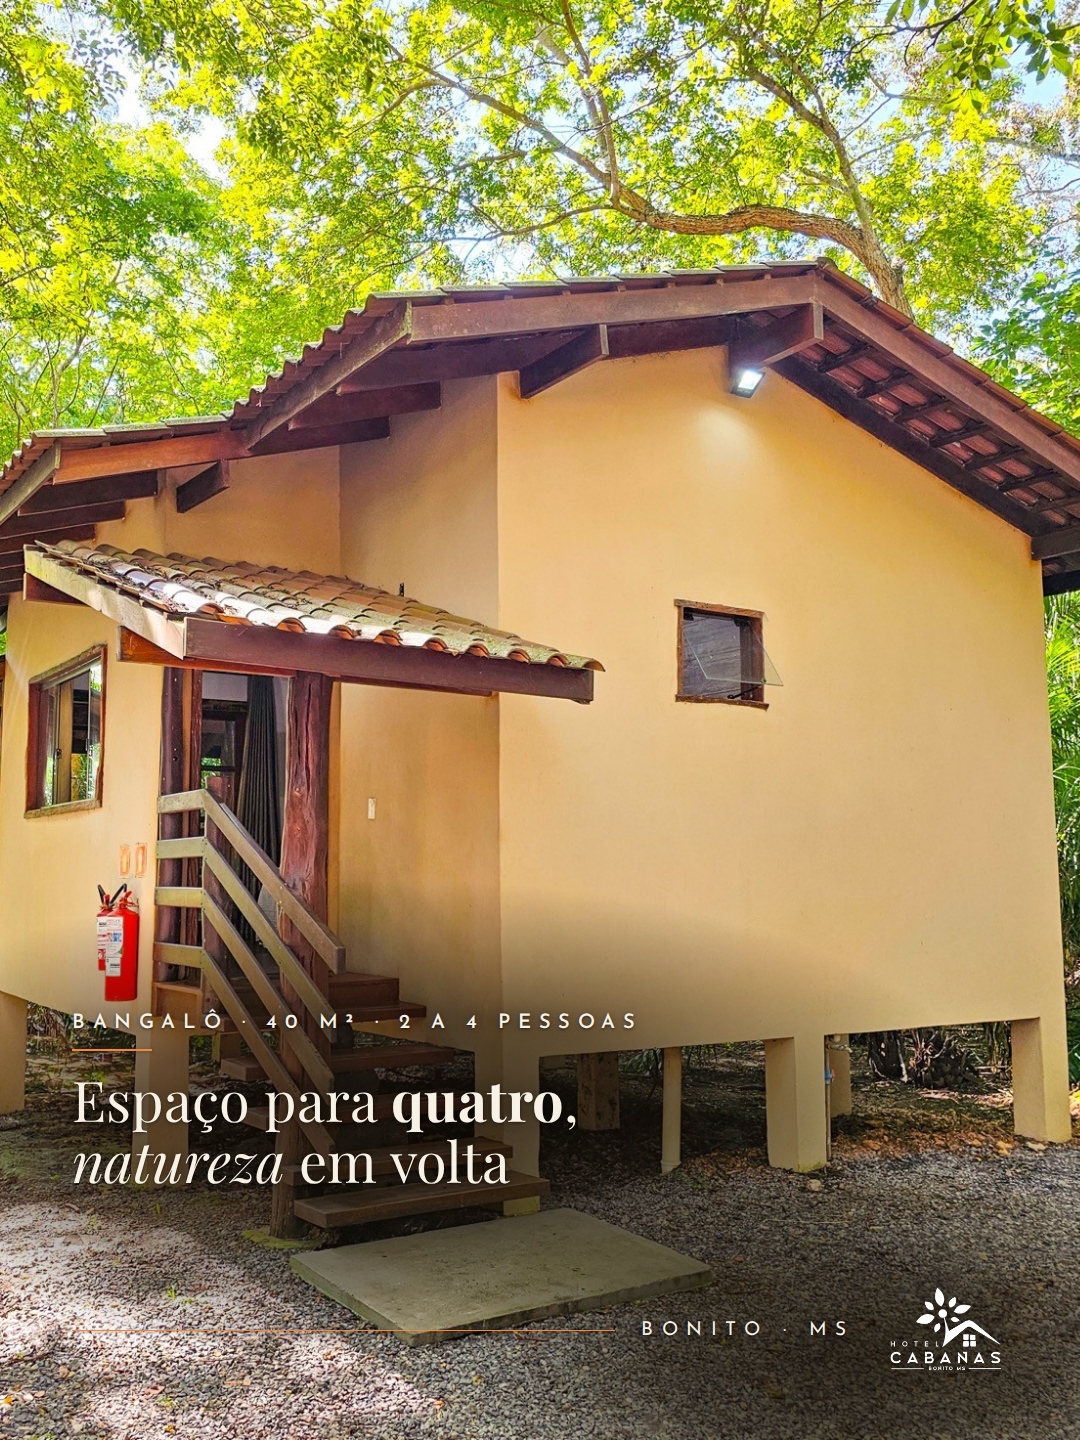
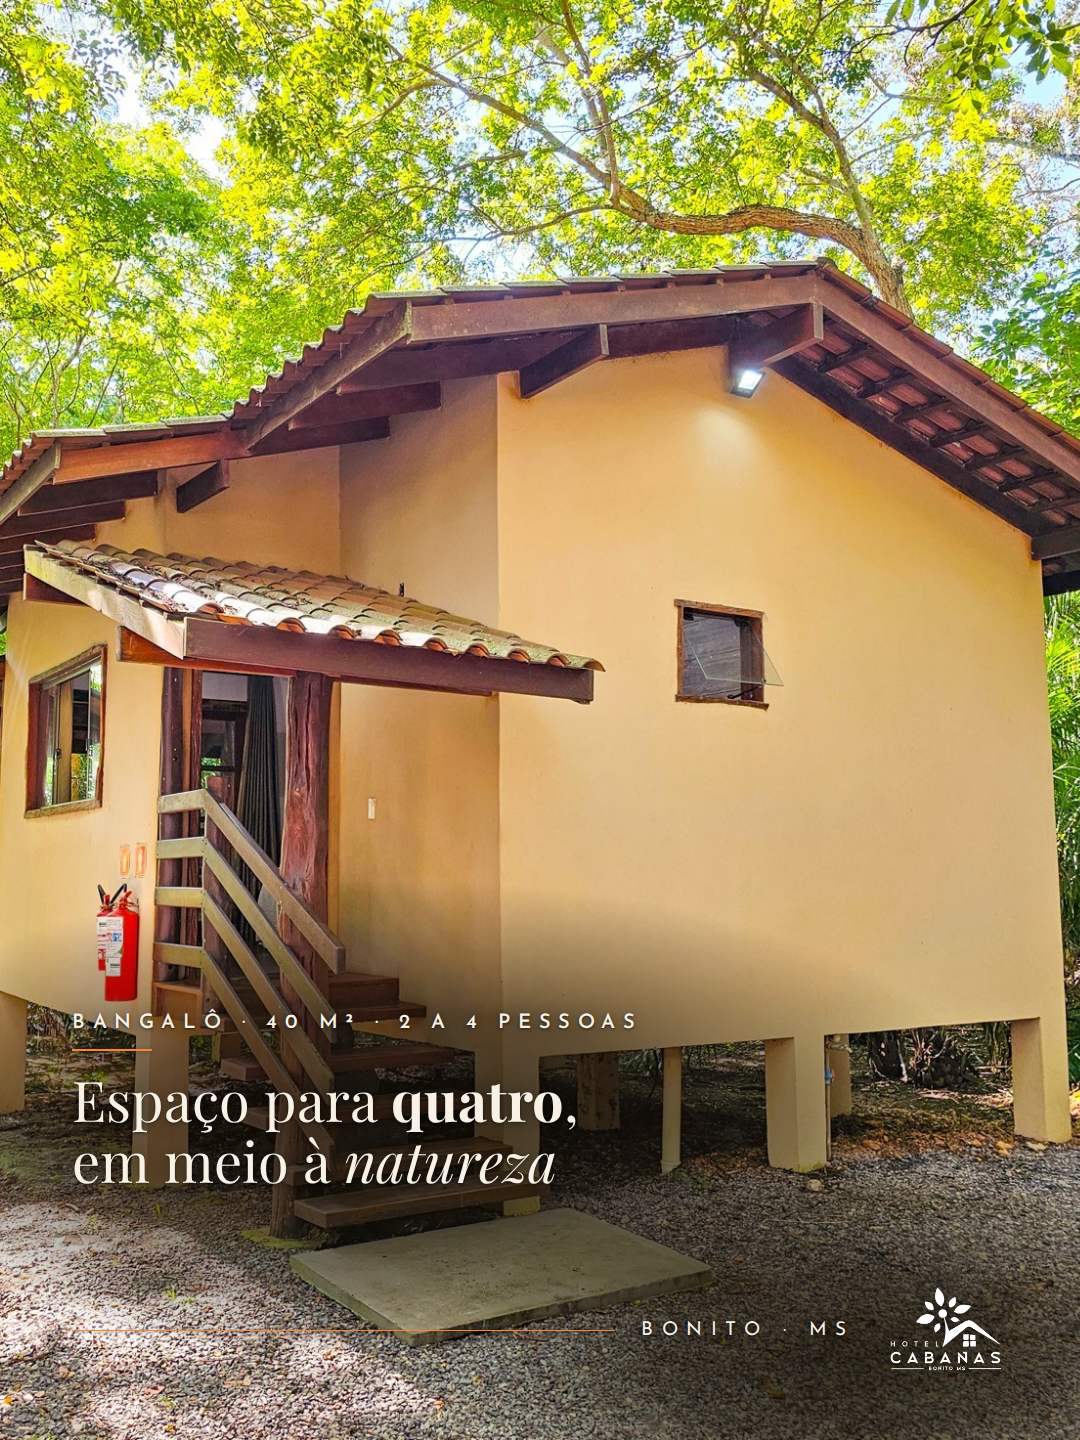
POST 16: tela 1 com o texto editado pelo dono na Central, nos 3 estilos
Claude-Session: https://claude.ai/code/session_01GffBmxQFJnfaKwiJFV7qgT

Changed region(s): [[0.0611, 0.7812, 0.5194, 0.8438]]

diff --git a/design/pecas/2026-10-instagram/POST-16/peca-caixa-1.html b/design/pecas/2026-10-instagram/POST-16/peca-caixa-1.html
@@ -18,7 +18,7 @@
   <div class="sombra" style="left: 290px; top: 1215px; width: 500px; height: 250px; --forca: 0.75"></div>
   
   <div class="cc" style="--topo: 900px">
-    <div class="cc-caixa"><h1 class="titulo duas">Espaço para quatro,<br>natureza em volta</h1></div>
+    <div class="cc-caixa"><h1 class="titulo duas">Espaço para quatro,<br>em meio à natureza</h1></div>
     <p class="cc-apoio">Bangalô · 40 m² · 2 a 4 pessoas</p>
   </div>
   <div class="cc-selo base">

diff --git a/design/pecas/2026-10-instagram/POST-16/peca-sem-faixa-1.html b/design/pecas/2026-10-instagram/POST-16/peca-sem-faixa-1.html
@@ -20,7 +20,7 @@
   <div class="bloco-sf baixo">
       <p class="apoio">Bangalô · 40 m² · 2 a 4 pessoas</p>
       <div class="linha"></div>
-      <h1 class="titulo">Espaço para <b>quatro</b>,<br><i>natureza</i> em volta</h1>
+      <h1 class="titulo">Espaço para <b>quatro</b>,<br>em meio à <i>natureza</i></h1>
   </div>
   <div class="assin-sf">
     <span class="fio"></span>

diff --git a/design/pecas/2026-10-instagram/POST-16/peca-1.html b/design/pecas/2026-10-instagram/POST-16/peca-1.html
@@ -18,7 +18,7 @@
     <div class="texto">
       <p class="apoio">Bangalô · 40 m² · 2 a 4 pessoas</p>
       <div class="linha"></div>
-      <h1 class="titulo">Espaço para <b>quatro</b>,<br><i>natureza</i> em volta</h1>
+      <h1 class="titulo">Espaço para <b>quatro</b>,<br>em meio à <i>natureza</i></h1>
     </div>
     <div class="marca">
       <span class="num"></span>

diff --git a/social/conteudo/2026-10/conteudo.md b/social/conteudo/2026-10/conteudo.md
@@ -546,7 +546,7 @@ Reserve pelo link na bio ou pelo WhatsApp (67) 99117-1648
 
 ### Briefing de arte
 Feed 3:4 (1080 × 1440). Um só layout em todas as telas (o dono prefere **sem faixa**; faixa discreta marrom `#847059` se a foto for clara demais). Título serifado com a palavra em **negrito** e a palavra em *itálico* marcadas; apoio em sem serifa, caixa alta espaçada; linha fina laranja `#F58634` + "BONITO / MS" na assinatura. **Fotos abertas e conferidas pelo Designer em 29/09/2026** (arte pronta em `design/pecas/2026-10-instagram/POST-16/final/`, layout sem faixa; detalhes em `POST-16/entrega.md`). Trocas: tela 5 e tela 6 (abaixo).
-- TELA 1 (capa): apoio "BANGALÔ · 40 M² · 2 A 4 PESSOAS" · "Espaço para **quatro**, *natureza* em volta" (6) (foto: `Bangalô / bangalo_triplo_externa` (1bcxsg), https://drive.google.com/file/d/1bcxsgpVwVIjIhTqakffLIPrF3pDZvUEi/view; alternativa: `bangalo_triplo_externa` (1wbIC8))
+- TELA 1 (capa): apoio "BANGALÔ · 40 M² · 2 A 4 PESSOAS" · "Espaço para **quatro**, em meio à *natureza*" (7) (texto editado pelo dono na Central em 29/09) (foto: `Bangalô / bangalo_triplo_externa` (1bcxsg), https://drive.google.com/file/d/1bcxsgpVwVIjIhTqakffLIPrF3pDZvUEi/view; alternativa: `bangalo_triplo_externa` (1wbIC8))
 - TELA 2: apoio "ACOMODAÇÃO SEM VIZINHOS" · "Privacidade **aqui** é *garantida*" (4) (texto editado pelo dono na Central em 29/09) (foto: `Bangalô / bangalo_externa` (1Ys225), https://drive.google.com/file/d/1Ys2258SPxaO5ah1XvSLWK8IqAGOCrx3C/view; já confirmada como Bangalô no POST 07)
 - TELA 3: apoio "VARANDA PRIVATIVA COM REDE" · "A **rede** *espera* depois da trilha" (6) (foto: `Bangalô / bangalo_triplo_varanda_com _rede` (1YJx7o), https://drive.google.com/file/d/1YJx7oxm9B2-6m2riSvdhQfWdUVgpsyNo/view; alternativa: `bangalo_quadruplo_varanda_com_rede` (1c3Ru5), já usada no POST 07)
 - TELA 4: apoio "VARANDA PRIVATIVA" · "Conversa **longa**, *vista* para *natureza*" (5) (texto editado pelo dono na Central em 29/09) (foto: `Bangalô / bangalo_triplo_varanda` (1WZSUd), https://drive.google.com/file/d/1WZSUdBcTUezcjnZwCvvxPKNRDwHXxKRA/view)
@@ -579,7 +579,7 @@ Reserve pelo link na bio ou pelo WhatsApp (67) 99117-1648.
 
 ### Texto alternativo (alt text)
 Ajustadas pelo Designer ao que as fotos mostram (29/09/2026).
-- TELA 1: "Bangalô do Hotel Cabanas, de alvenaria em tom creme e telhado de telhas, elevado do chão sobre pilares, com escada de madeira, cercado de árvores. Texto: Espaço para quatro, natureza em volta."
+- TELA 1: "Bangalô do Hotel Cabanas, de alvenaria em tom creme e telhado de telhas, elevado do chão sobre pilares, com escada de madeira, cercado de árvores. Texto: Espaço para quatro, em meio à natureza."
 - TELA 2: "Bangalô visto de frente, sozinho entre palmeiras e árvores, elevado do chão, com escada e varanda de madeira. Texto: Privacidade aqui é garantida."
 - TELA 3: "Varanda do Bangalô com uma rede colorida armada, piso de madeira e a mata ao fundo. Texto: A rede espera depois da trilha."
 - TELA 4: "Varanda do Bangalô com mesa de madeira, banco com almofadas e vista para a mata. Texto: Conversa longa, vista para natureza."
